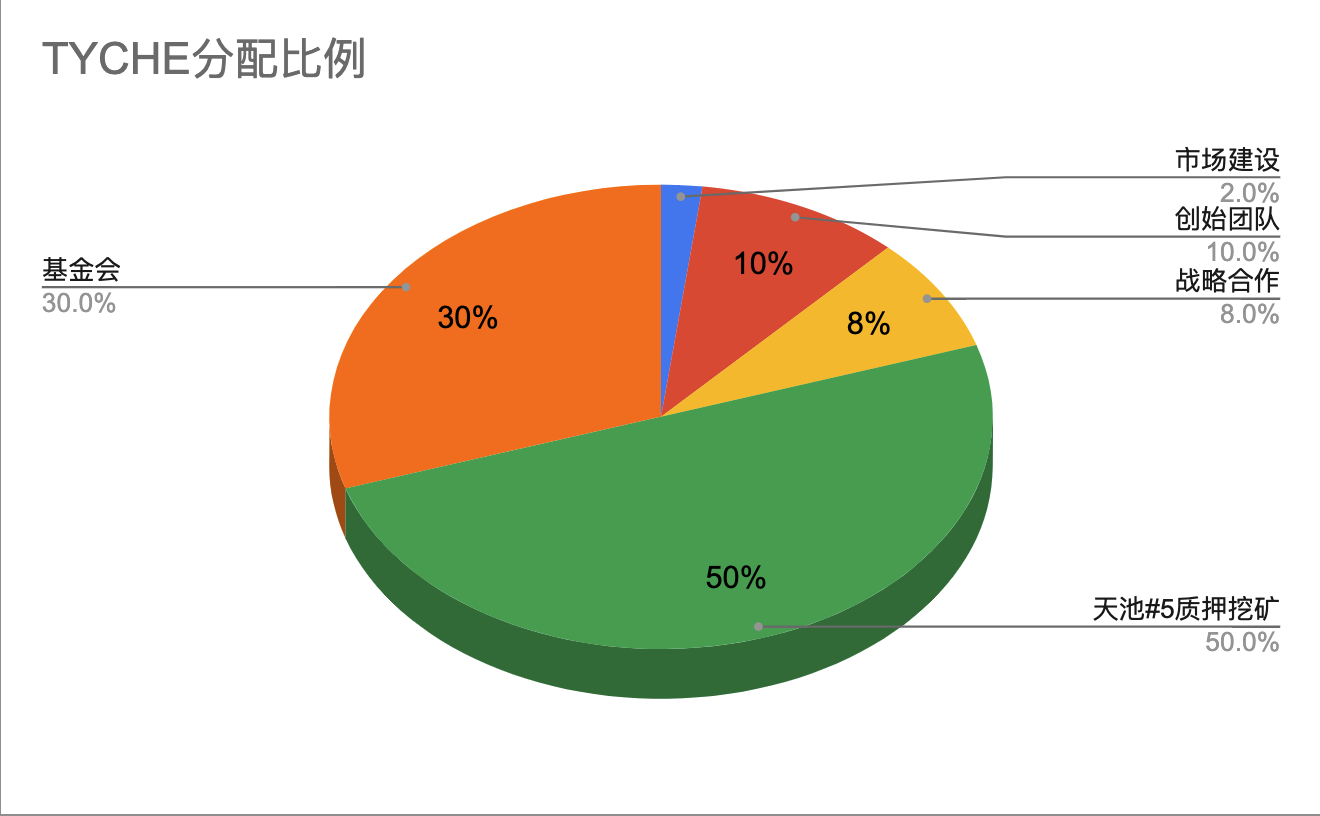
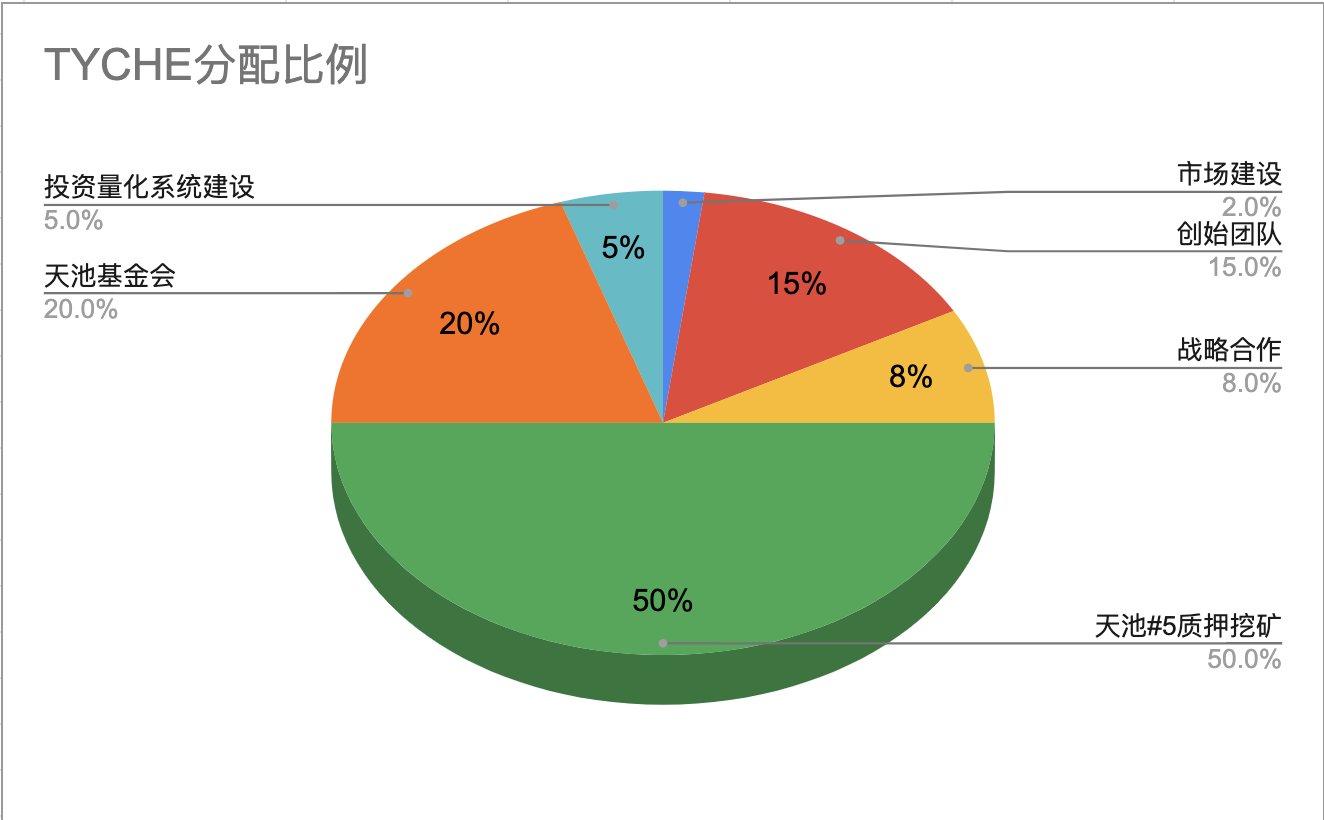
refine allocation talbe

diff --git a/tychefi.whitepaper.cn.md b/tychefi.whitepaper.cn.md
@@ -83,14 +83,14 @@
 
 `天赐币`的总体分配和发行如下：
 
-|<div style="width:160px">分配对象</div> | <div style="width:60px">分配占比<div>| <div style="width:80px">分配数量</div>| 分配使用目的                                             | 锁仓释放计划            |
-| --------- | ---------- | ---------- | ------------------------------------------------------ | --------------------- |
-| 市场建设   | `2%`       | `42万`      | 社区空投（天池矿池中）、开拓市场、社区发展、用户支持 | 按贡献释放，无锁仓要求 |
-| 创始团队   | `15%`      | `315万`     | 开发用户产品、理财投资业务、用户支持 | 产品研发和建设预留`105万`，后面`210万`在市值每增长`$10万USDT`，则解锁1万枚`TYCHE`给团队 |
-| 战略合作   | `8%`       | `168万`     | 理财业务合作、空投合作、挖矿合作 | 按贡献释放，无锁仓要求 |
-| 天池#5质押挖矿 | `50%`   | `1050万`    | 用户直接质押挖矿，收益+TYCHE双挖 | 按比例分配的天赐币，其中`90%`同质押币一起释放，`10%`直接释放 |
-| 基金会 (`tyche.fund`)   | `25%`   | `525万`      |  全部严格用于市值管理，稳定市场，推动生态建设健康发展为唯一目标 | 由`TycheFi`的DAO组织来统一管理 |
-
+| 分配对象               | 分配占比    | 分配数量    | 分配使用目的                                             | 锁仓释放计划            |
+| -------------------- | ---------- | ---------- | ------------------------------------------------------ | --------------------- |
+| 市场建设              | `2%`       | `42万`      | 社区空投（天池矿池中）、开拓市场、社区发展、用户支持            | 按贡献释放，无锁仓要求 |
+| 创始团队              | `15%`      | `315万`     | 开发用户产品、理财投资业务、用户支持 | 产品研发和建设预留`105万`，后面`210万`在市值每增长`$10万USDT`，则解锁1万枚`TYCHE`给团队 |
+| 战略合作              | `8%`       | `168万`     | 理财业务合作、空投合作、挖矿合作                            | 按贡献释放，无锁仓要求 |
+| 天池#5质押挖矿         | `50%`      | `1050万`    | 用户直接质押挖矿，收益+TYCHE双挖 | 按比例分配的天赐币，其中`90%`同质押币一起释放，`10%`直接释放 |
+| 基金会 (`tyche.fund`) | `25%`      | `525万`     | 全部严格用于市值管理，稳定市场，推动生态建设健康发展为唯一目标   | 由`TycheFi`的DAO组织来统一管理 |
+| 投资量化研究院         | `5%`       | `105万`     ｜ 加密领域技术和产品投资标的物研究，量化策略和系统研发           | 预留`50万`，后面按贡献释放，无锁仓要求 |
 
 ## 天赐币价值说明
 
